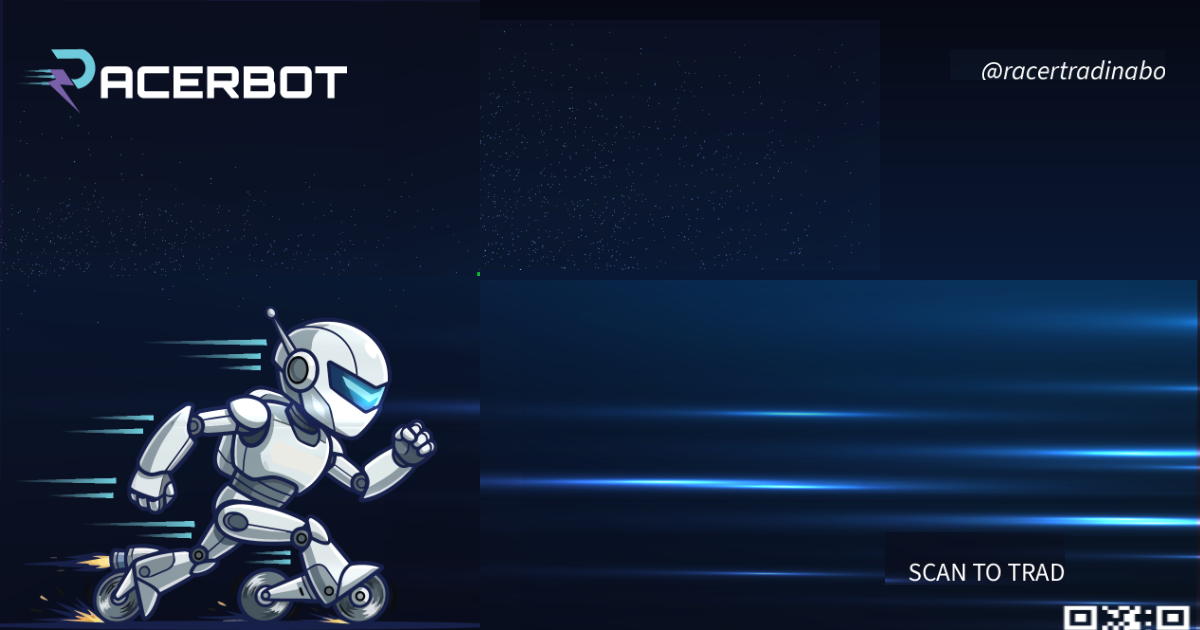
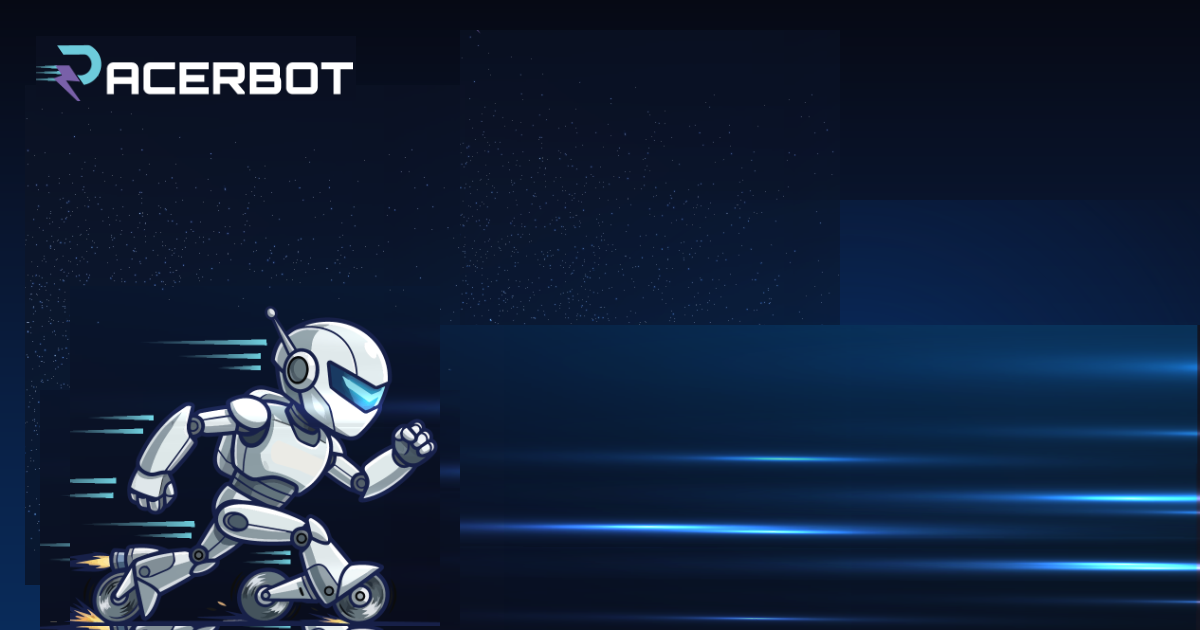
fix(api): align entire PNL card spec with clean vector text and 48px unified right margin

diff --git a/packages/api/src/pnlCardImageGenerator.ts b/packages/api/src/pnlCardImageGenerator.ts
@@ -173,11 +173,16 @@ export async function generatePNLCardImage(data: PNLCardData): Promise<Buffer | 
 
     const cardHtml = html`
       <div style="display: flex; position: relative; width: 1200px; height: 630px; font-family: Orbitron;">
-        <!-- High-fidelity landscape background template (starfield, mascot, logo, handle, lighting beams) -->
+        <!-- High-fidelity landscape background template (starfield, mascot, logo, lighting beams) -->
         <img src="${bgTemplateB64}" style="position: absolute; left: 0; top: 0; width: 1200px; height: 630px;" />
 
+        <!-- Handle @racertradingbot (Top Right) -->
+        <div style="display: flex; position: absolute; right: 48px; top: 48px; font-size: 18px; font-weight: 500; font-style: italic; color: #ffffff; opacity: 0.95; letter-spacing: 0.5px;">
+          @racertradingbot
+        </div>
+
         <!-- Token Ticker (Right aligned above banner) -->
-        <div style="display: flex; position: absolute; right: 48px; top: 105px; font-size: ${tickerFontSize}px; font-weight: 700; color: #ffffff; letter-spacing: 2px; line-height: 1;">
+        <div style="display: flex; position: absolute; right: 48px; top: 104px; font-size: ${tickerFontSize}px; font-weight: 700; color: #ffffff; letter-spacing: 2px; line-height: 1;">
           ${ticker}
         </div>
 
@@ -189,7 +194,7 @@ export async function generatePNLCardImage(data: PNLCardData): Promise<Buffer | 
         </div>
 
         <!-- 3 Stats Columns -->
-        <div style="display: flex; position: absolute; left: 560px; right: 48px; top: 325px; justify-content: space-between; text-align: center;">
+        <div style="display: flex; position: absolute; left: 560px; width: 592px; top: 328px; justify-content: space-between; text-align: center;">
           <div style="display: flex; flex-direction: column; align-items: center; width: 180px;">
             <div style="font-size: 15px; font-style: italic; font-weight: 500; color: #8fa2be; margin-bottom: 6px;">${stat1Label}</div>
             <div style="font-size: 26px; font-weight: 700; color: #ffffff;">${stat1Value}</div>
@@ -204,14 +209,14 @@ export async function generatePNLCardImage(data: PNLCardData): Promise<Buffer | 
           </div>
         </div>
 
-        <!-- Referral Code Text -->
-        <div style="display: flex; position: absolute; right: 135px; top: 588px; font-size: 13px; font-weight: 700; color: ${refColor}; letter-spacing: 0.5px;">
-          REF: ${refCode}
-        </div>
-
-        <!-- Referral QR Code -->
-        <div style="display: flex; position: absolute; right: 48px; top: 524px; width: 72px; height: 72px; border-radius: 4px; overflow: hidden;">
-          <img src="${qrDataUrl}" style="width: 72px; height: 72px;" />
+        <!-- Bottom Right Callout & Referral Section -->
+        <div style="display: flex; position: absolute; right: 48px; bottom: 20px; align-items: flex-end; gap: 14px; text-align: right;">
+          <div style="display: flex; flex-direction: column; align-items: flex-end; line-height: 1.45;">
+            <div style="color: #ffffff; font-weight: 700; letter-spacing: 0.8px; font-size: 14px;">SCAN TO TRADE</div>
+            <div style="color: #9cb3ce; font-size: 13px; font-weight: 500;">t.me/racertradingbot</div>
+            <div style="color: ${refColor}; font-weight: 700; font-size: 13px; letter-spacing: 0.5px;">REF: ${refCode}</div>
+          </div>
+          <img src="${qrDataUrl}" style="width: 72px; height: 72px; border-radius: 4px; overflow: hidden;" />
         </div>
       </div>
     `;
